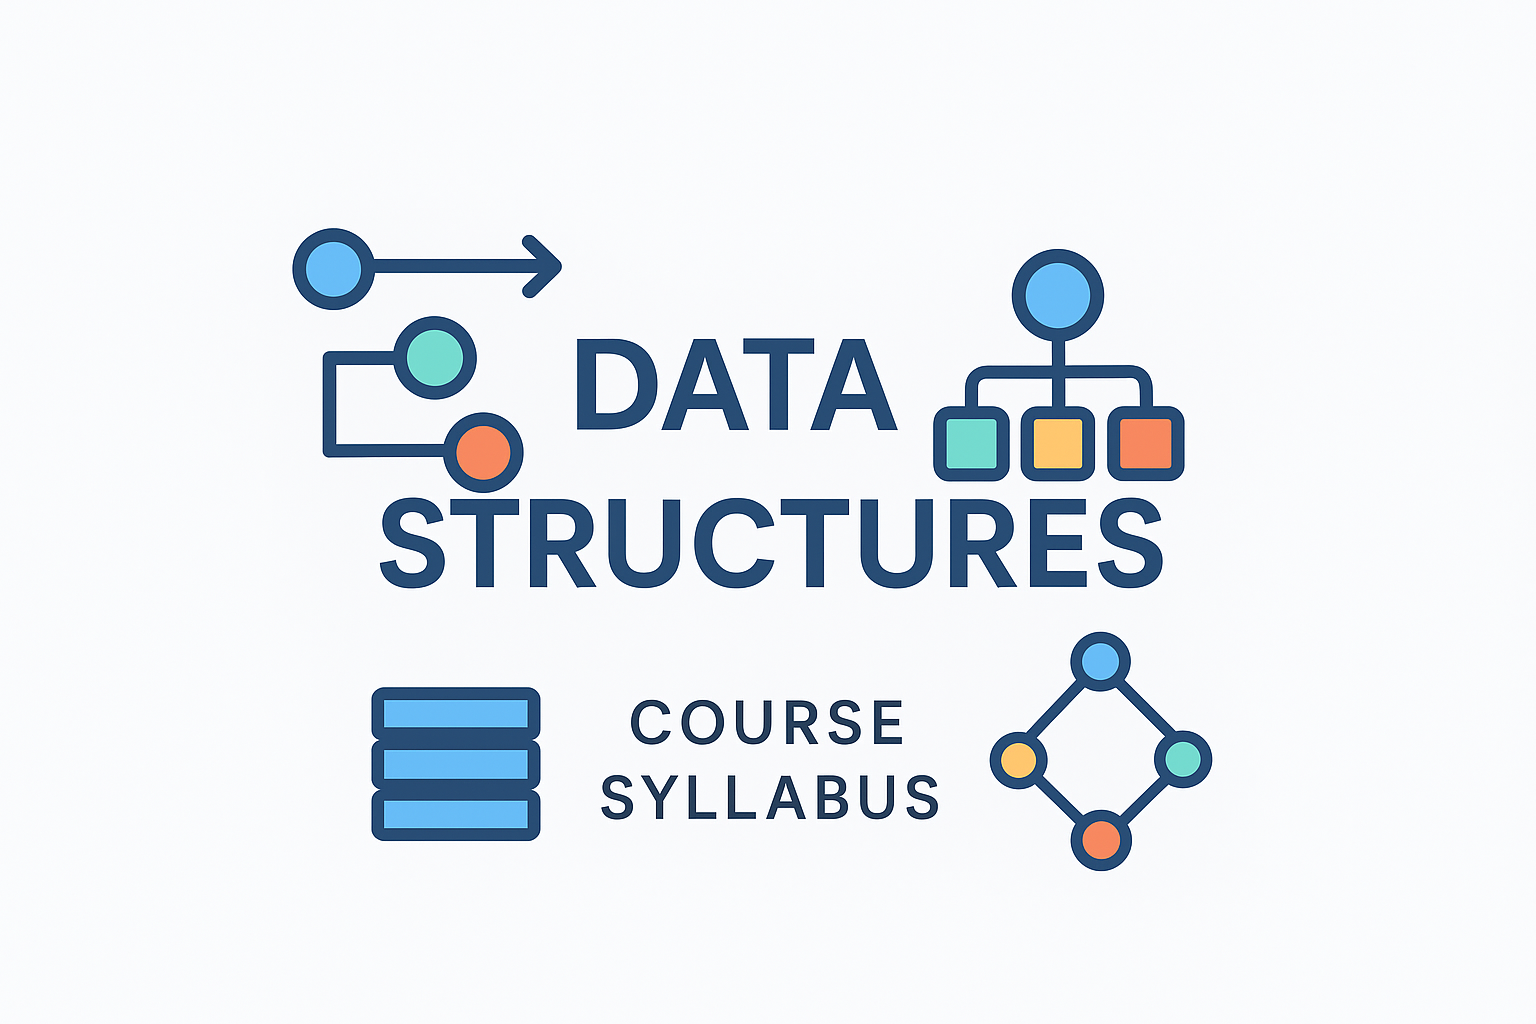
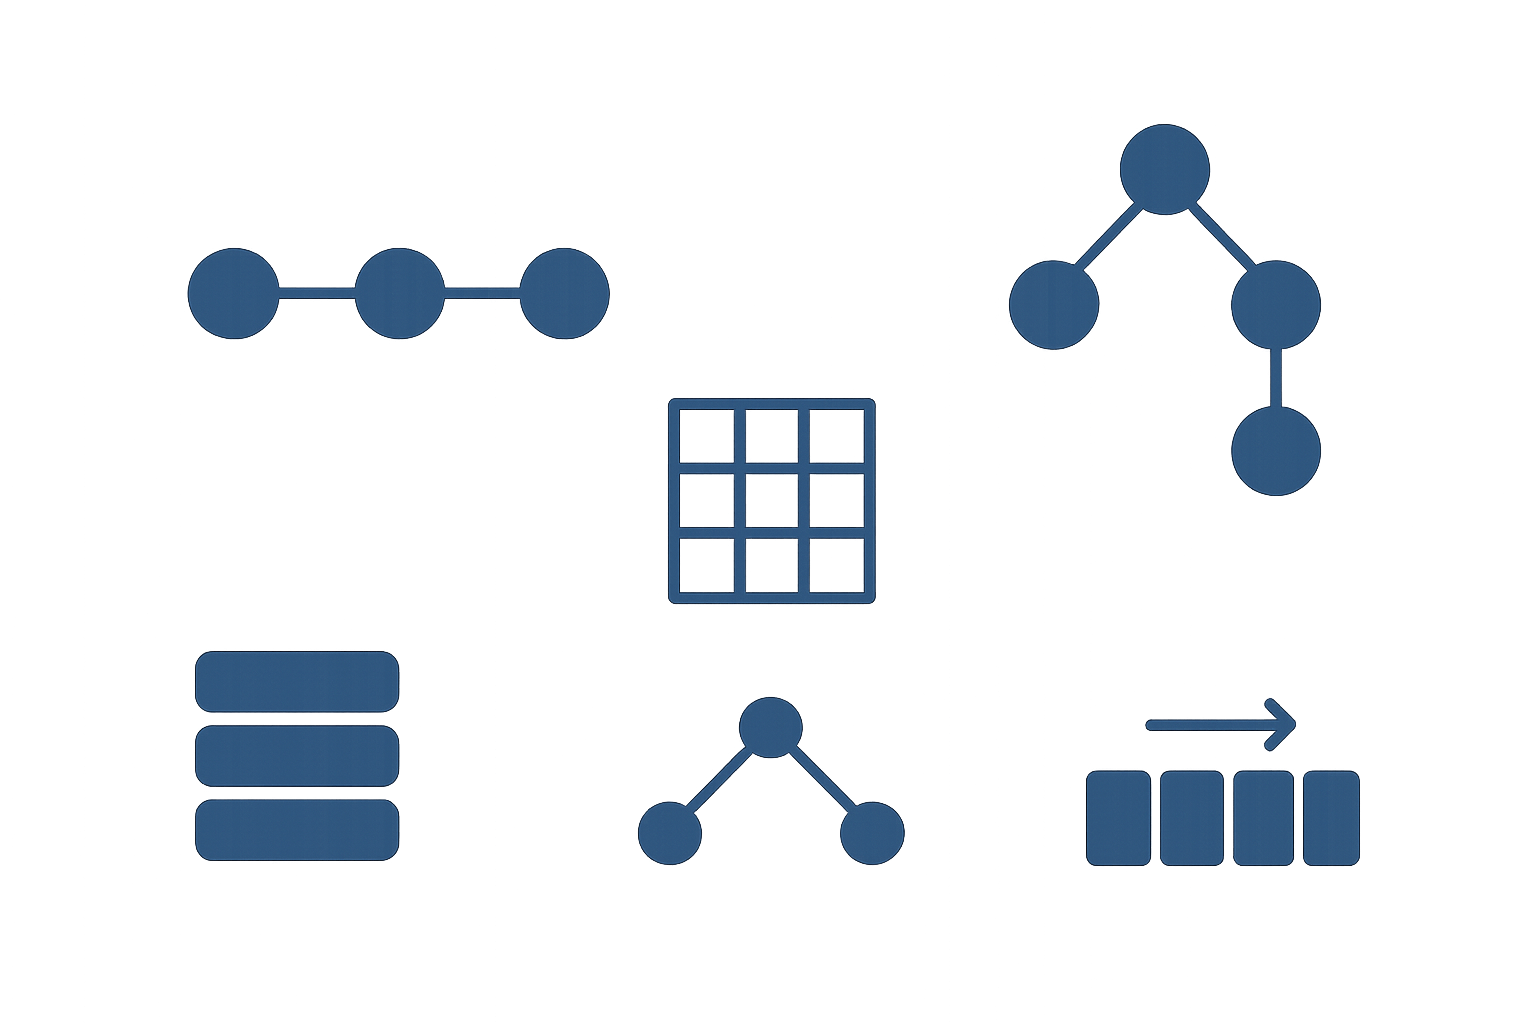
Course 203 updated

Changed region(s): [[0.125, 0.125, 0.9062, 0.8438]]

diff --git a/_pages/teaching.md b/_pages/teaching.md
@@ -1,7 +1,7 @@
 ---
 layout: page
 permalink: /teaching/
-title: Teaching
+title: teaching
 description: Course Information
 nav: true
 nav_order: 6
